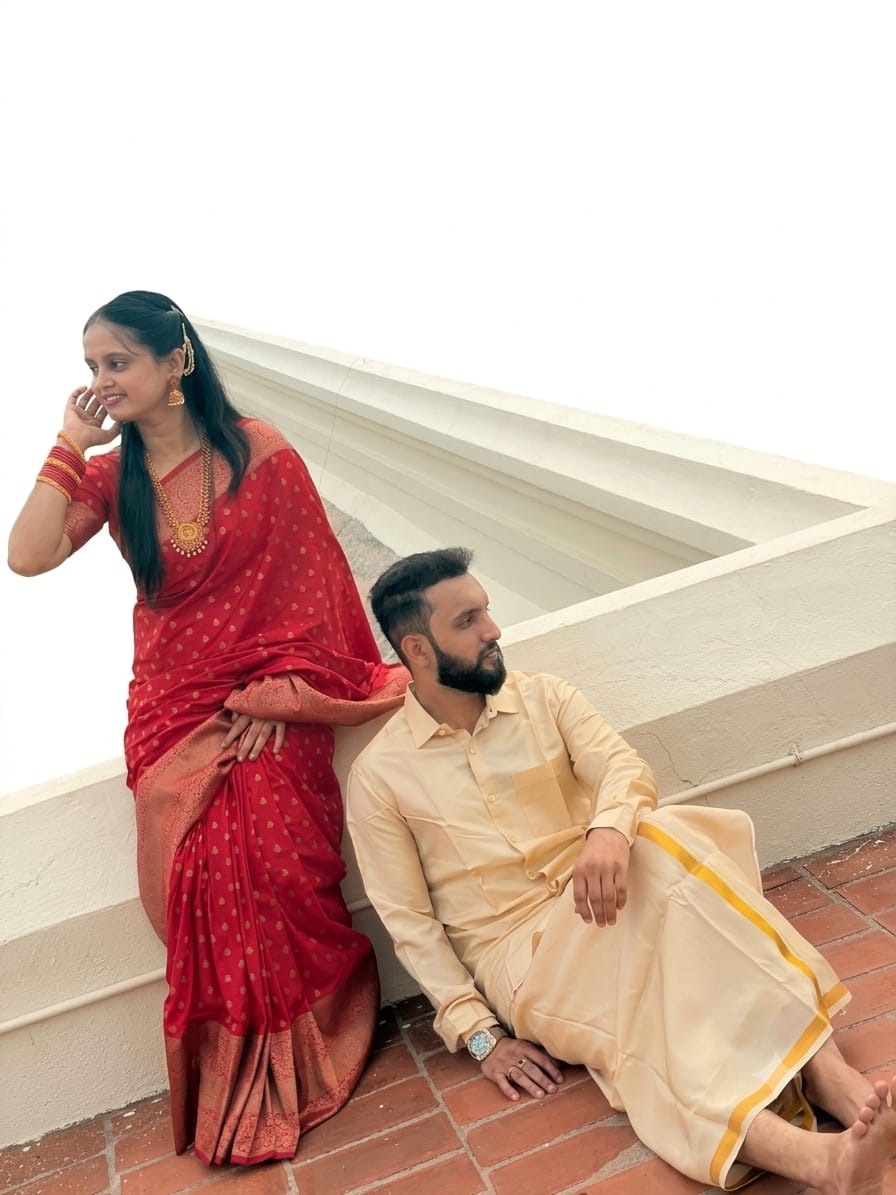
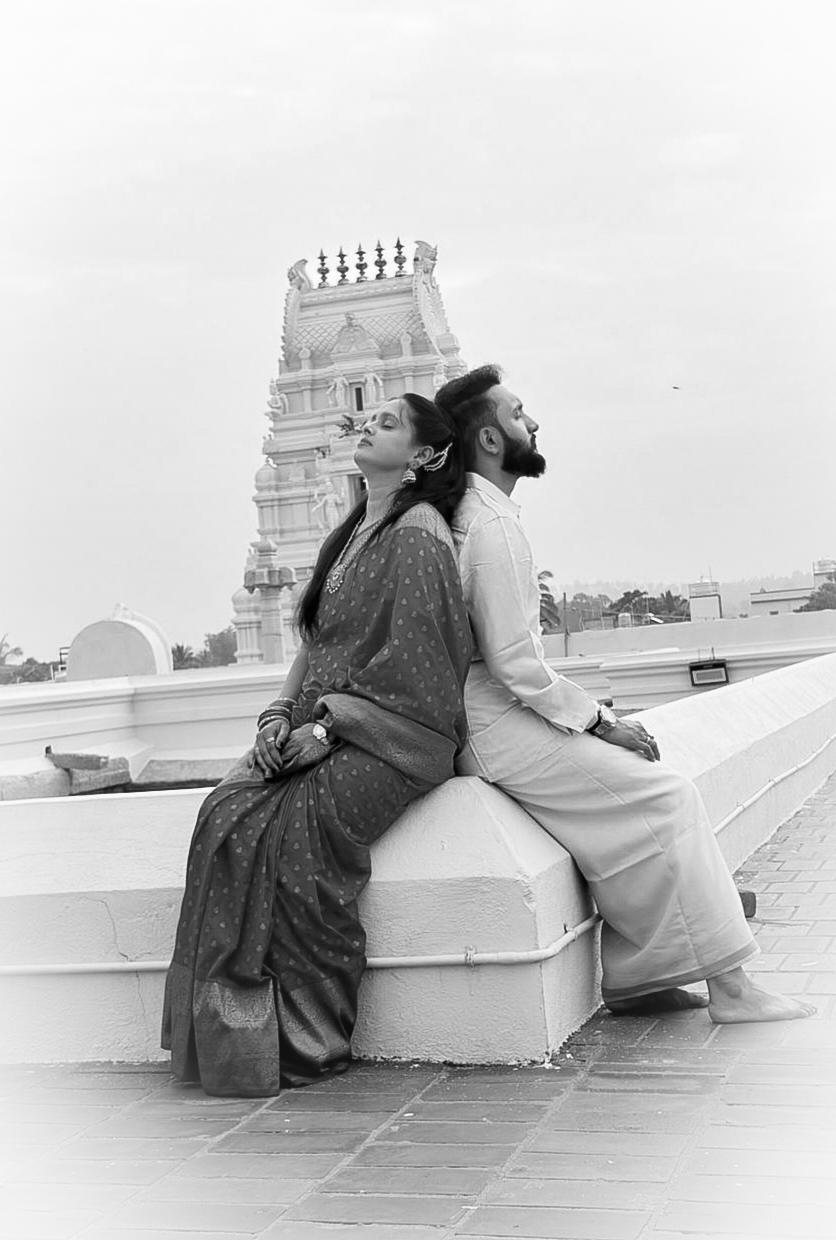
Update carousel images and adjust second image crop position

diff --git a/src/styles/layout.css b/src/styles/layout.css
@@ -87,6 +87,11 @@
   opacity: 1;
 }
 
+/* Second image: position higher to show more of it */
+.hero__circle-img:nth-child(2) {
+  object-position: center 30%;
+}
+
 /* swipe-up hint: three gold chevrons (a light runs up them, src/anim/hero.ts) over a cream pill.
    Sits above the music button's row so the two never meet. */
 .hero__cue {
